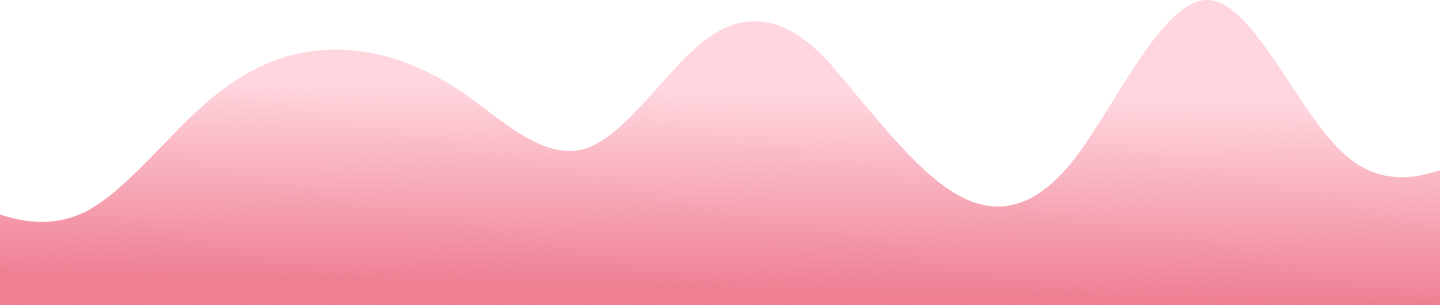
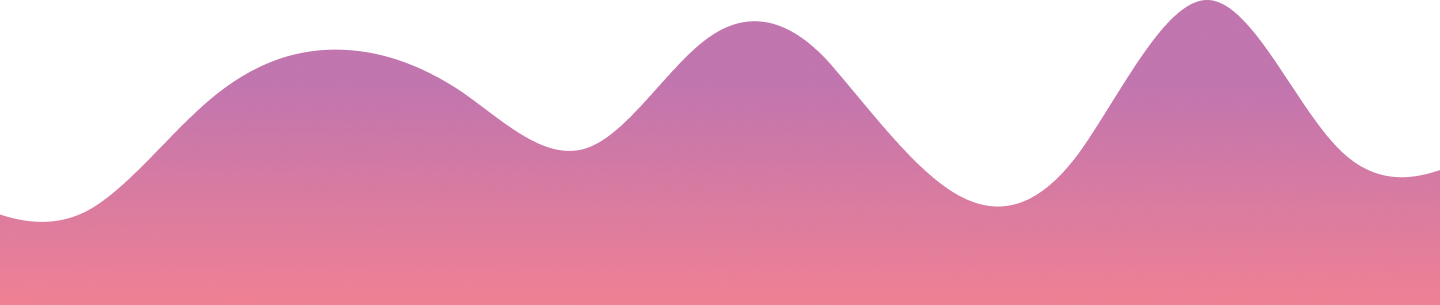
new

diff --git a/src/pages/Summary.js b/src/pages/Summary.js
@@ -1,0 +1,48 @@
+import React, { useState } from 'react';
+import './Summary.css';
+
+const Summary = () => {
+  const [rating, setRating] = useState(22);
+
+  const calculateGradient = () => {
+    const percentRating = (rating / 110) * 100;
+    const offset = 100 - percentRating;
+    return {
+      offset: offset + '%',
+      color: `conic-gradient(from 180deg, red ${offset}%, yellow ${offset} 66%, green 0 100%)`,
+    };
+  };
+
+  const { offset, color } = calculateGradient();
+
+  return (
+    <div className="summary-container">
+      <div className="rating-semicircle">
+        <svg width="200" height="100" viewBox="0 0 200 100">
+          <defs>
+            <linearGradient id="gradient" x1="0%" y1="0%" x2="100%" y2="0%">
+              <stop offset={offset} style={{ stopColor: 'red' }} />
+              <stop offset={offset} style={{ stopColor: 'yellow' }} />
+              <stop offset="100%" style={{ stopColor: 'green' }} />
+            </linearGradient>
+          </defs>
+          <path
+            d="M0,50 A50,50 0 0,1 100,50"
+            fill="none"
+            stroke="url(#gradient)"
+            strokeWidth="40"
+          />
+        </svg>
+        <div className="rating-label">{rating}/110</div>
+      </div>
+      <div className="scrollable-box">
+        <p>Here is some scrollable content.</p>
+        <p>You can add more text here.</p>
+        <p>And it will scroll when it exceeds the box height.</p>
+      </div>
+      <img src="/images/wave2.png" alt="Wave" className="waveImage" />
+    </div>
+  );
+};
+
+export default Summary;

diff --git a/src/pages/Summary.css b/src/pages/Summary.css
@@ -1,0 +1,58 @@
+/* Summary.css */
+.summary-container {
+  display: flex;
+  flex-direction: column;
+  align-items: center;
+  width: 100%;
+  min-height: 100vh;
+  overflow: hidden;
+}
+
+.waveImage {
+  position: absolute;
+  bottom: 0;
+  left: 0;
+  width: 100%;
+  height: auto;
+}
+
+.rating-semicircle {
+  position: relative;
+  display: flex;
+  flex-direction: column;
+  align-items: center;
+  justify-content: center;
+  width: 100%;
+  background-color: #b8b8b8;
+  clip-path: polygon(0 0, 100% 0, 100% 100%, 0 100%);
+  z-index: 1;
+}
+
+.rating-arc {
+  position: absolute;
+  height: 100%;
+  width: 100%;
+  border-radius: 50%;
+  background: conic-gradient(transparent);
+}
+
+.rating-label {
+  font-size: 24px;
+  color: #C175AE;
+  margin-top: 10px;
+  z-index: 2;
+}
+
+.scrollable-box {
+  flex: 1;
+  overflow-y: auto;
+  padding: 20px;
+  text-align: center;
+  font-size: 16px;
+  color: #333;
+  background-color: #FEF9F3;
+  width: 100%;
+  max-width: 800px;
+  margin: 0 auto;
+  position: relative;
+}

diff --git a/src/App.js b/src/App.js
@@ -3,7 +3,7 @@ import {BrowserRouter as Router, Routes, Route} from 'react-router-dom';
 import './App.css';
 import Welcome from './pages/Welcome';
 import HomePage from './pages/HomePage';
-import SignUp from './pages/SignUp';
+import Summary from './pages/Summary';
 import Login from './pages/Login';
 import Questions from './pages/Questions';
 
@@ -16,7 +16,7 @@ const App = () => {
         <Routes>
           <Route path ="/" element = {<Welcome />} />
           <Route path ="/HomePage" element = {<HomePage />} />
-          <Route path ="/SignUp" element = {<SignUp />} />
+          <Route path ="/Summary" element = {<Summary />} />
           <Route path ="/login" element={<Login />} /> 
           <Route path ="/Questions" element={<Questions />} />
         </Routes>

diff --git a/backend/server.js b/backend/server.js
@@ -18,7 +18,8 @@ app.use(express.json());
 app.use("/", express.static("public"));
 
 mongoose.set('strictQuery', true);
-mongoose.connect(process.env.MongoURL);
+// mongoose.connect(process.env.MongoURL);
+mongoose.connect('mongodb+srv://AbelT:SyllaBye101@syllabyedb.vb955ru.mongodb.net/?retryWrites=true&w=majority');
 
 app.post('/api/login', async (req, res) => {
     const user = await User.findOne({email: req.body.email});

diff --git a/src/pages/Welcome.js b/src/pages/Welcome.js
@@ -22,7 +22,7 @@ function Welcome() {
 
     function handleRegisterAsk(e) {
         e.preventDefault();
-        navigate('/SignUp');
+        navigate('/Summary');
     }
 
     return (
